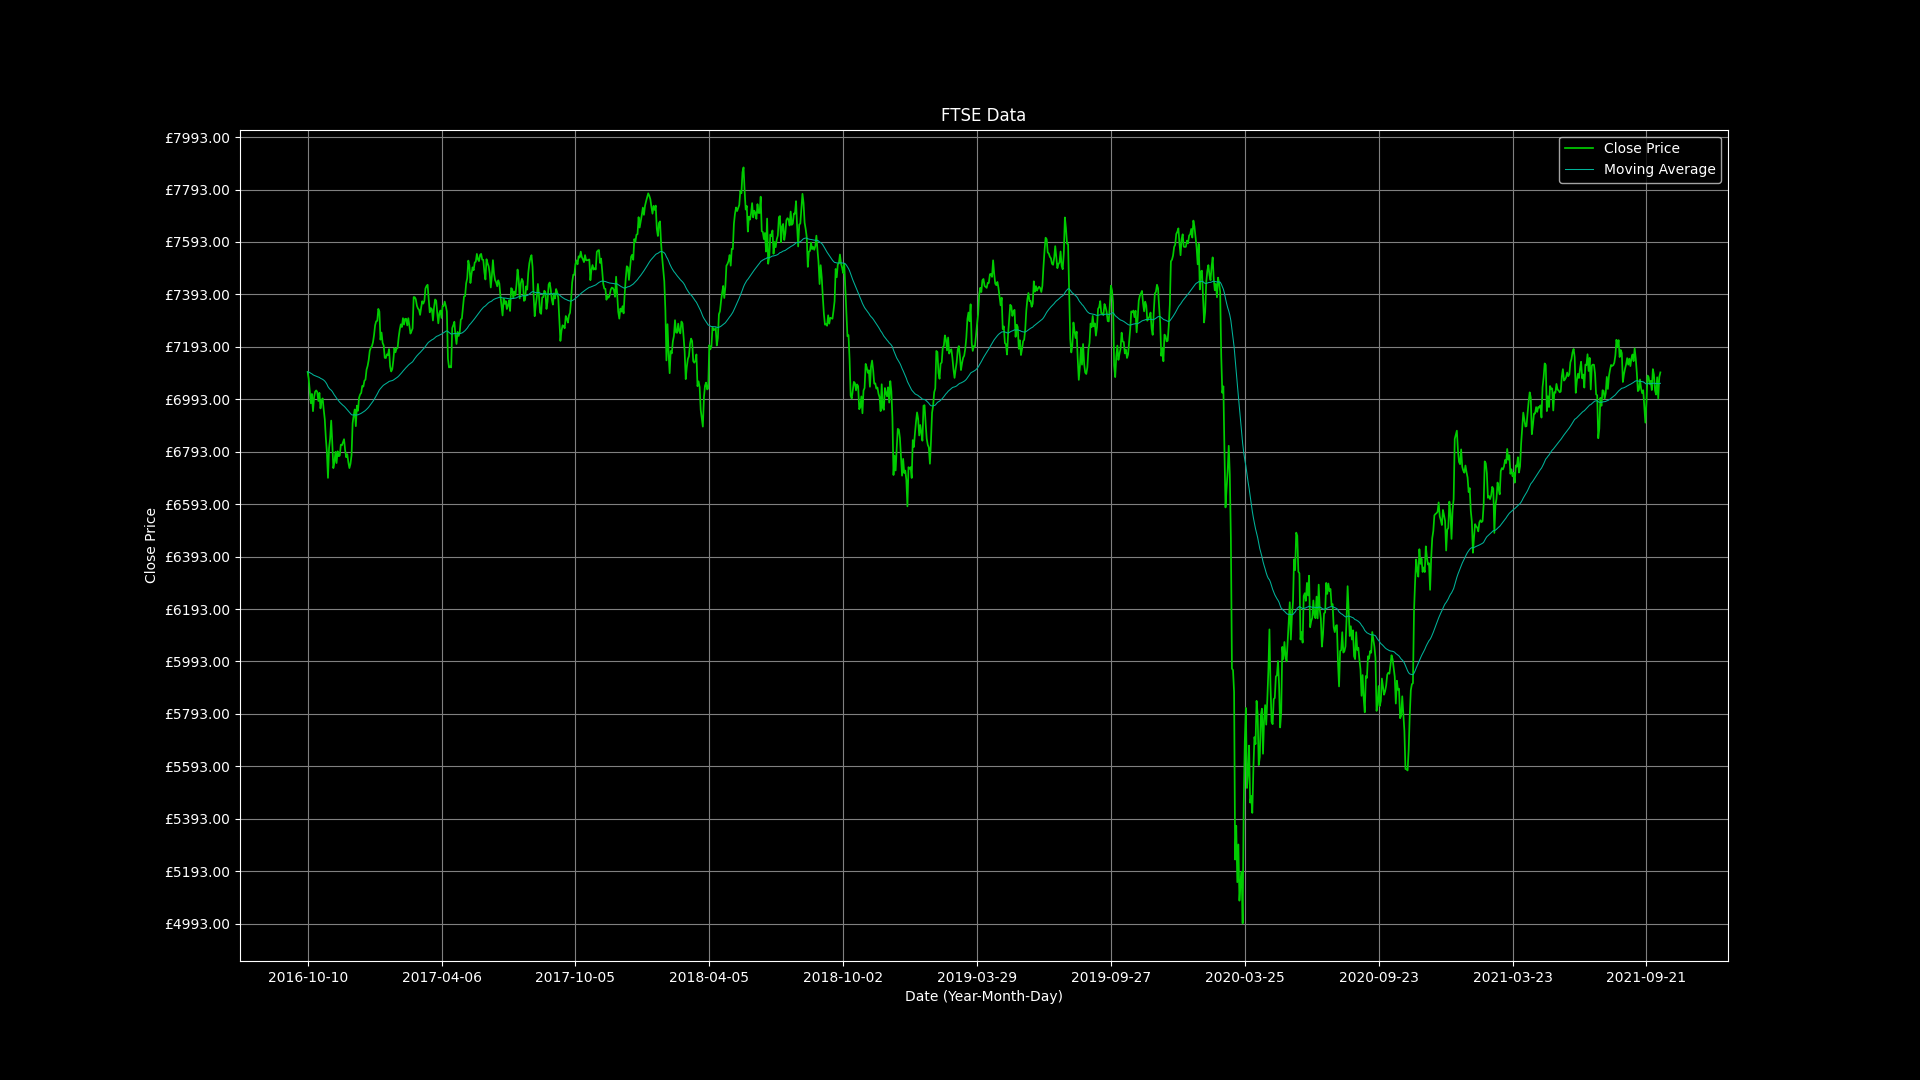
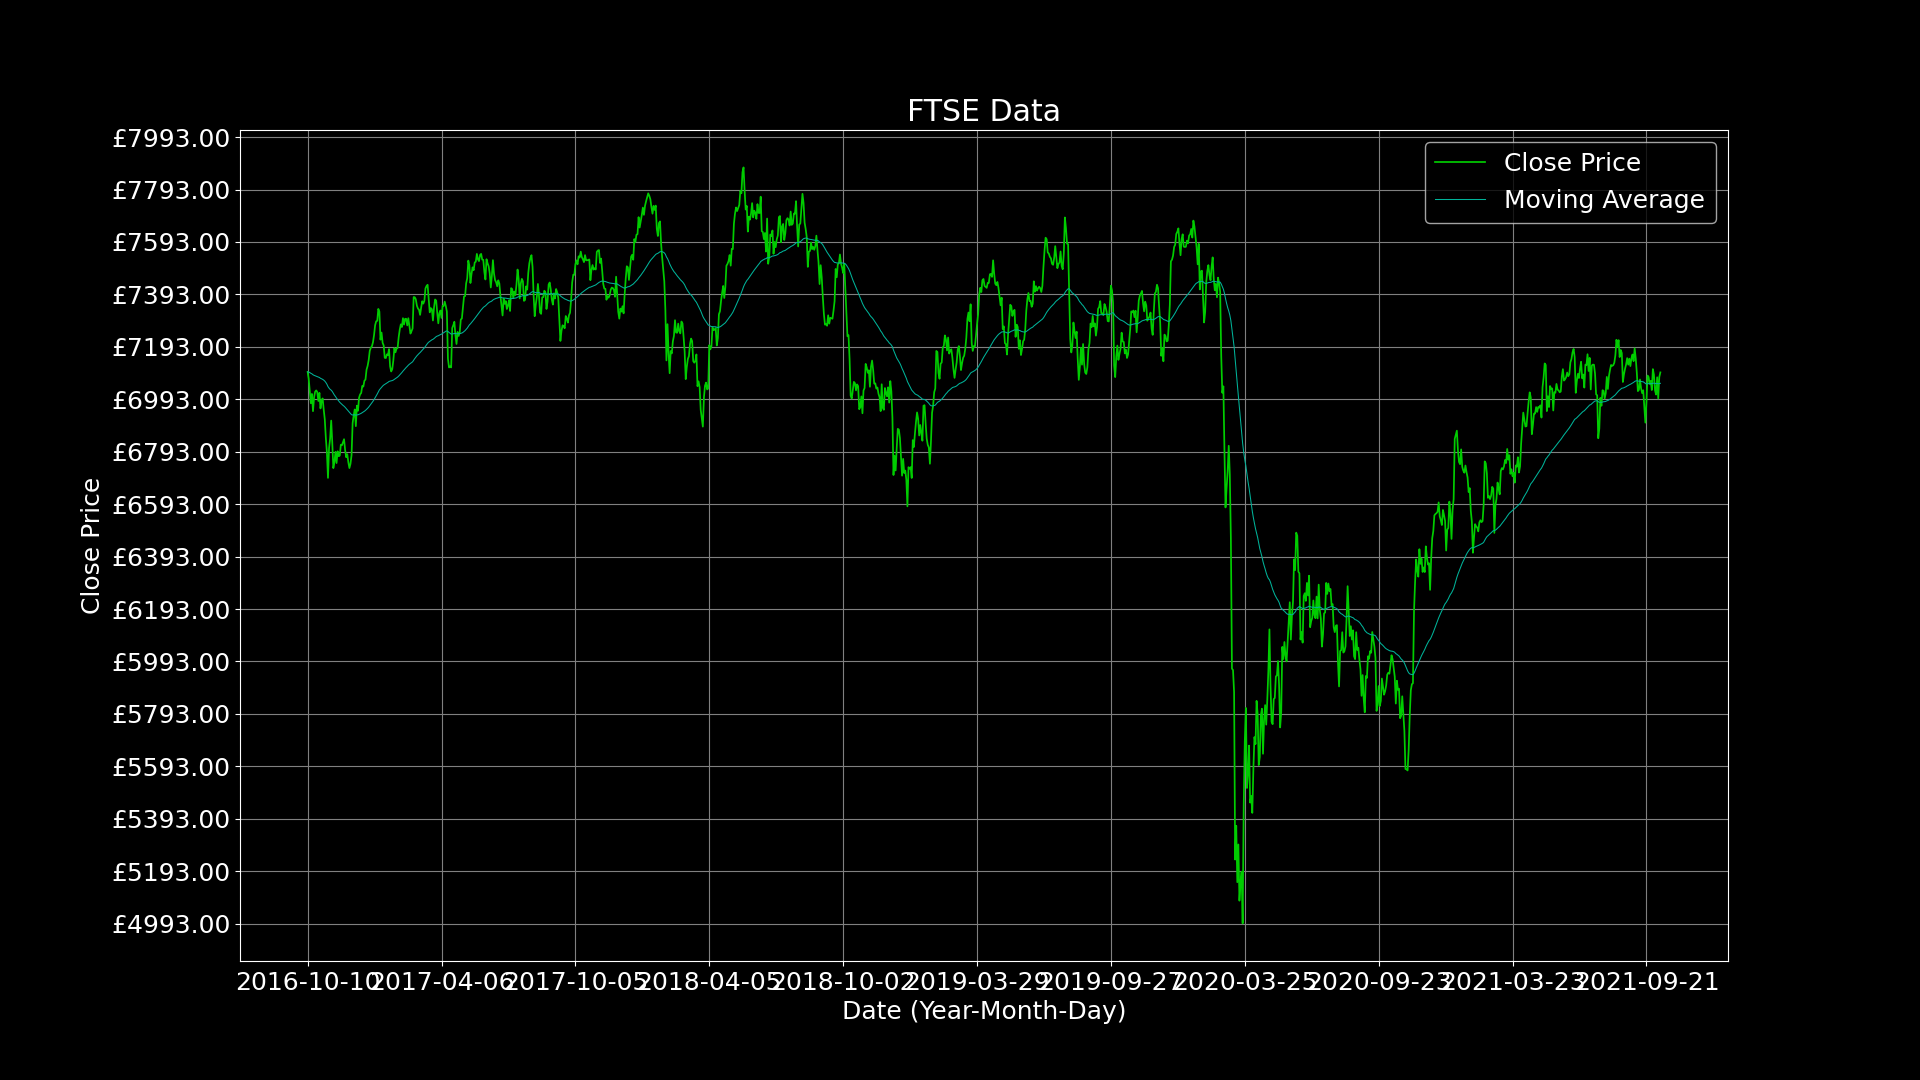
Fixed blackness final plot

diff --git a/main.py b/main.py
@@ -10,10 +10,11 @@ def collage(showplt=True, savepltimg=False):
     """ Plot a 4 panel 16:9 figure for each graph
     and text summarising each graph. """
     ## Configure main figure and subplots
+    plt.rcParams.update({'font.size': 18})
     fig, (r1, r2) = plt.subplots(2, 2, figsize=(19.2, 10.8),
                                  facecolor=(0.90, 0.90, 0.90, 1))
     fig.suptitle("State of the (UK) Nation 2021", size=22)
-    fig.tight_layout(pad=1)
+    fig.tight_layout(pad=0.5)
     plt.subplots_adjust(wspace=-0.1)
     plts = [r1[0], r1[1], r2[0], r2[1]]
     for plt_ in plts:
@@ -23,12 +24,14 @@ def collage(showplt=True, savepltimg=False):
     ## Create images
     parts = [part_a, part_b, part_c]
     for i,part in enumerate(parts):
-        if i != len(parts) - 1: fig_, (ax1_, ax2_) = plt.subplots(1, 2, figsize=(19.2, 10.8))
+        if i != len(parts) - 1:
+            fig_, (ax1_, ax2_) = plt.subplots(1, 2, figsize=(19.2, 10.8))
         else:
             fig_, ax1_ = plt.subplots(1, 1, figsize=(19.2, 10.8))
             ax2_ = None
         part(ax1_, ax2_, show=False, save=True)
         del fig_, ax1_, ax2_
+    plt.style.use('default')
     ## Load and plot images
     for plt_, ichar in zip(plts, imgs_char):
         plt_.imshow(mpimg.imread(f'Images/part_{ichar}.png'))

diff --git a/part_a.py b/part_a.py
@@ -48,8 +48,8 @@ nd = newcastle_data
 def part_a(ax1, ax2, show=True, save=False):
     ## Axis 1 - London Data
     ax1.grid(axis='y', color='black')
-    ax1.bar(ld['Property_Type'], ld['Avg_Price'], color='red')
-    ax1.set_title("London", color='red', fontdict=fd22)
+    ax1.bar(ld['Property_Type'], ld['Avg_Price'], color='red', )
+    ax1.set_title("London", color='red')
     ax1.tick_params('x', labelrotation=0)
     ax1.set_yticks(ticks=[x*200_000 for x in range(6)])
     ax1.set_yticklabels(labels=["£0", "£200K", "£400K",  "£600K", "£800K", "£1M"])
@@ -57,7 +57,7 @@ def part_a(ax1, ax2, show=True, save=False):
     ax1.set_ylabel("Average Prices £")
     ax1.set_ylim(0, 1_000_000)
     ## Axis 2 - Newcastle Data
-    ax2.grid(axis='y')
+    ax2.grid(axis='y', color='black')
     ax2.bar(nd['Property_Type'], nd['Avg_Price'], color='blue')
     ax2.set_title("Newcastle upon Tyne", color='blue')
     ax2.tick_params('x', labelrotation=0)

diff --git a/part_c.py b/part_c.py
@@ -51,7 +51,7 @@ def part_c(ax1, fig, show=True, save=False):
                labels=["£" + str(x) + ".00" for x in range(int(min(c)),
                                                            int(max(c)) + 200, 200)])
     ax1.set_xticks(ticks=[x for x in range(0, len(d), 125)],
-               rotation=0)
+               rotation=90)
     # Render chart with legend
     ax1.legend()
     if show: plt.show()

diff --git a/imports.py b/imports.py
@@ -3,6 +3,8 @@ import pandas as pd
 import matplotlib.pyplot as plt
 import numpy as np
 
-fd   = {'fontsize':18} # fd -> font-dict
-fd22 = {'fontsize':22} # fd -> font-dict
-fd
+# fd -> font-dict
+fd   = {'fontsize':18}
+fd22 = {'fontsize':22}
+fdB  = {'fontsize':25}
+big  = 25
